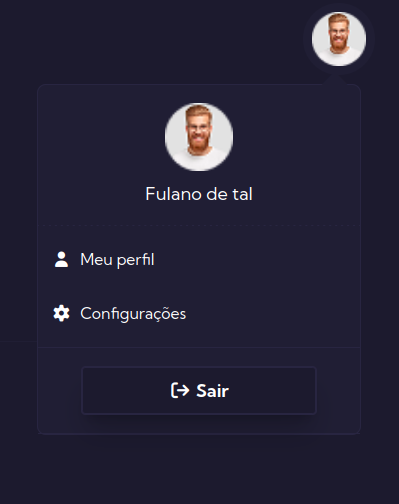
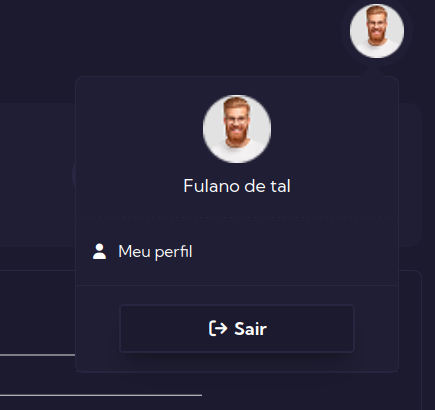
Add alert messaging for user login and dashboard: implement success alert on login and display alert in dashboard

diff --git a/resources/views/dashboard/dashboard.blade.php b/resources/views/dashboard/dashboard.blade.php
@@ -1,14 +1,18 @@
 <x-base-layout sub-pag-menu="dashboard">
 
     <main class="w-full ">
-        @session('success')
-        <p>{{ session('success') }}</p>
-        @endsession
 
         <x-header pag-menu="Dashboard"/>
 
+        @session('alert')
+        <div class="mb-4">
+            <x-alert :message="session('alert.message')" :type="session('alert.type')"/>
+        </div>
+        @endsession
+
         <!--CARDS INICIAIS-->
         <section class=" flex w-full gap-8">
+
             <!--Saldo Total-->
             <div
                 class="ml-5 bg-[#201E34] w-1/3 h-32 rounded-xl flex justify-center items-center gap-3 card-dashboard cursor-pointer transition">

diff --git a/app/Http/Controllers/LoginController.php b/app/Http/Controllers/LoginController.php
@@ -24,7 +24,10 @@ class LoginController extends Controller
         if (Auth::attempt($credentials)) {
             $request->session()->regenerate();
 
-            return redirect()->intended(route('site.dashboard'));
+            return redirect()->intended(route('site.dashboard'))->with('alert', [
+                'message' => "Seja bem-vindo(a), " . auth()->user()->name . "!",
+                'type' => 'success',
+            ]);
         }
 
         return back()->withErrors([

diff --git a/resources/views/components/alert.blade.php b/resources/views/components/alert.blade.php
@@ -1,4 +1,4 @@
-<div class="px-7 flex justify-center items-center alert">
+<div class="px-5 flex justify-center items-center alert">
     <div class="{{ $ColorClasses() }} w-full rounded-lg flex justify-between p-5">
         <div class="flex items-center gap-2">
             <i class="{{ $IconClasses() }} text-lg"></i>

diff --git a/resources/views/transactions/transactions.blade.php b/resources/views/transactions/transactions.blade.php
@@ -27,6 +27,8 @@
         @session('alert')
         <x-alert :message="session('alert.message')" :type="session('alert.type')"/>
         @endsession
+
+
         <section class=" max-w-[95%] ml-7 mb-5 flex justify-center items-center">
 
 